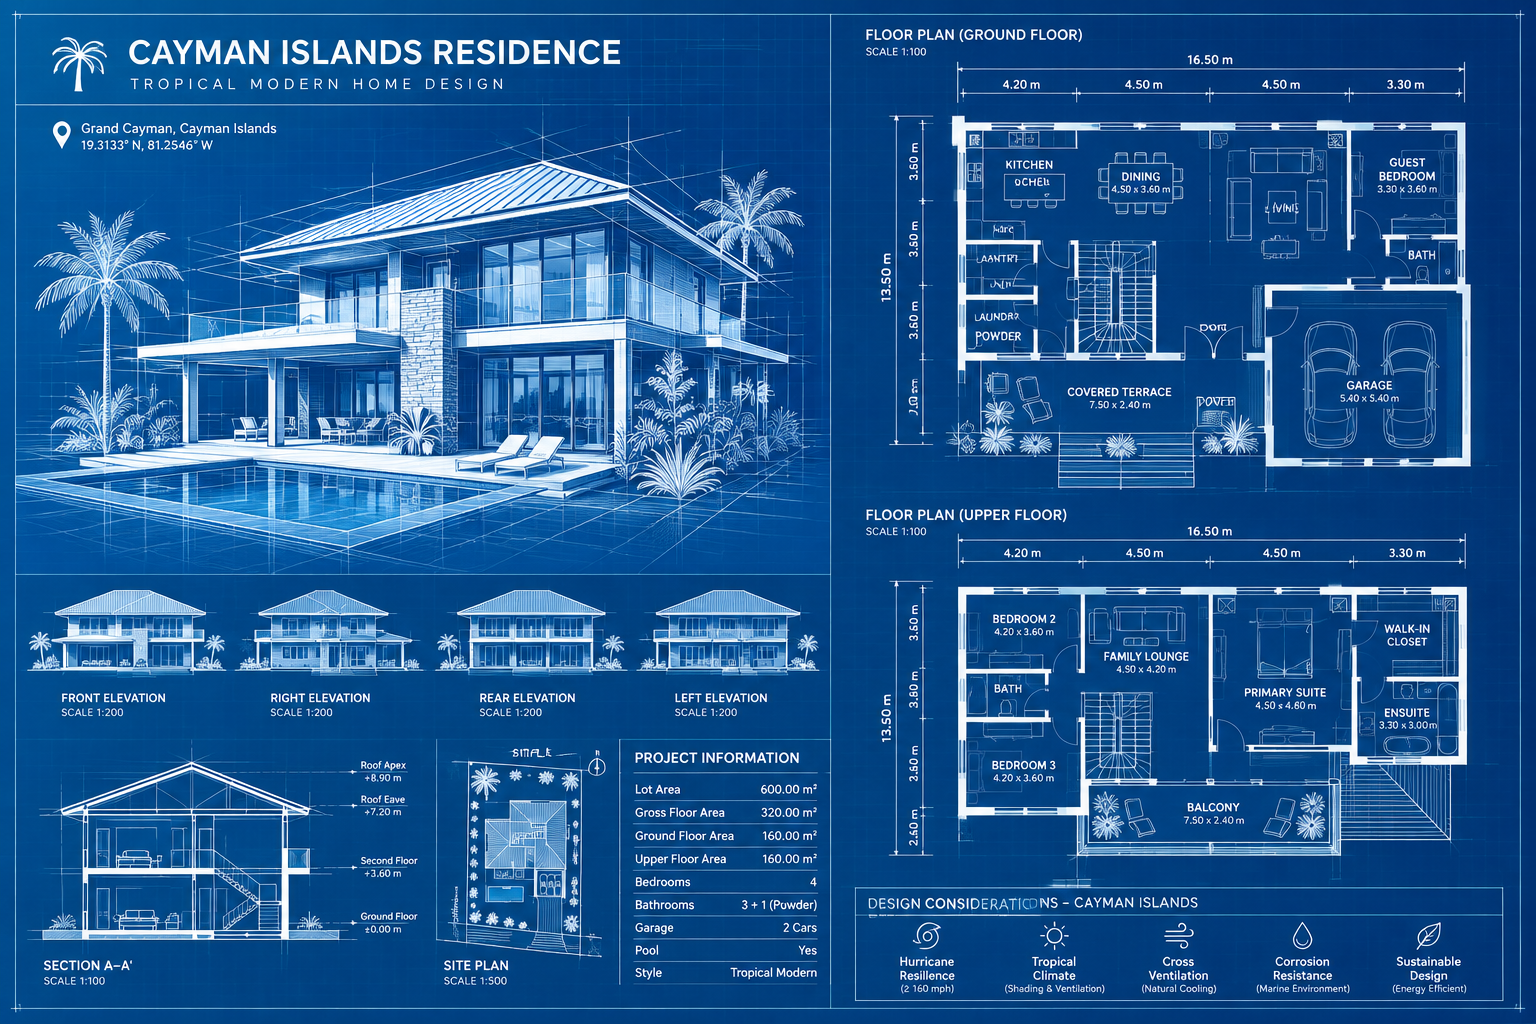
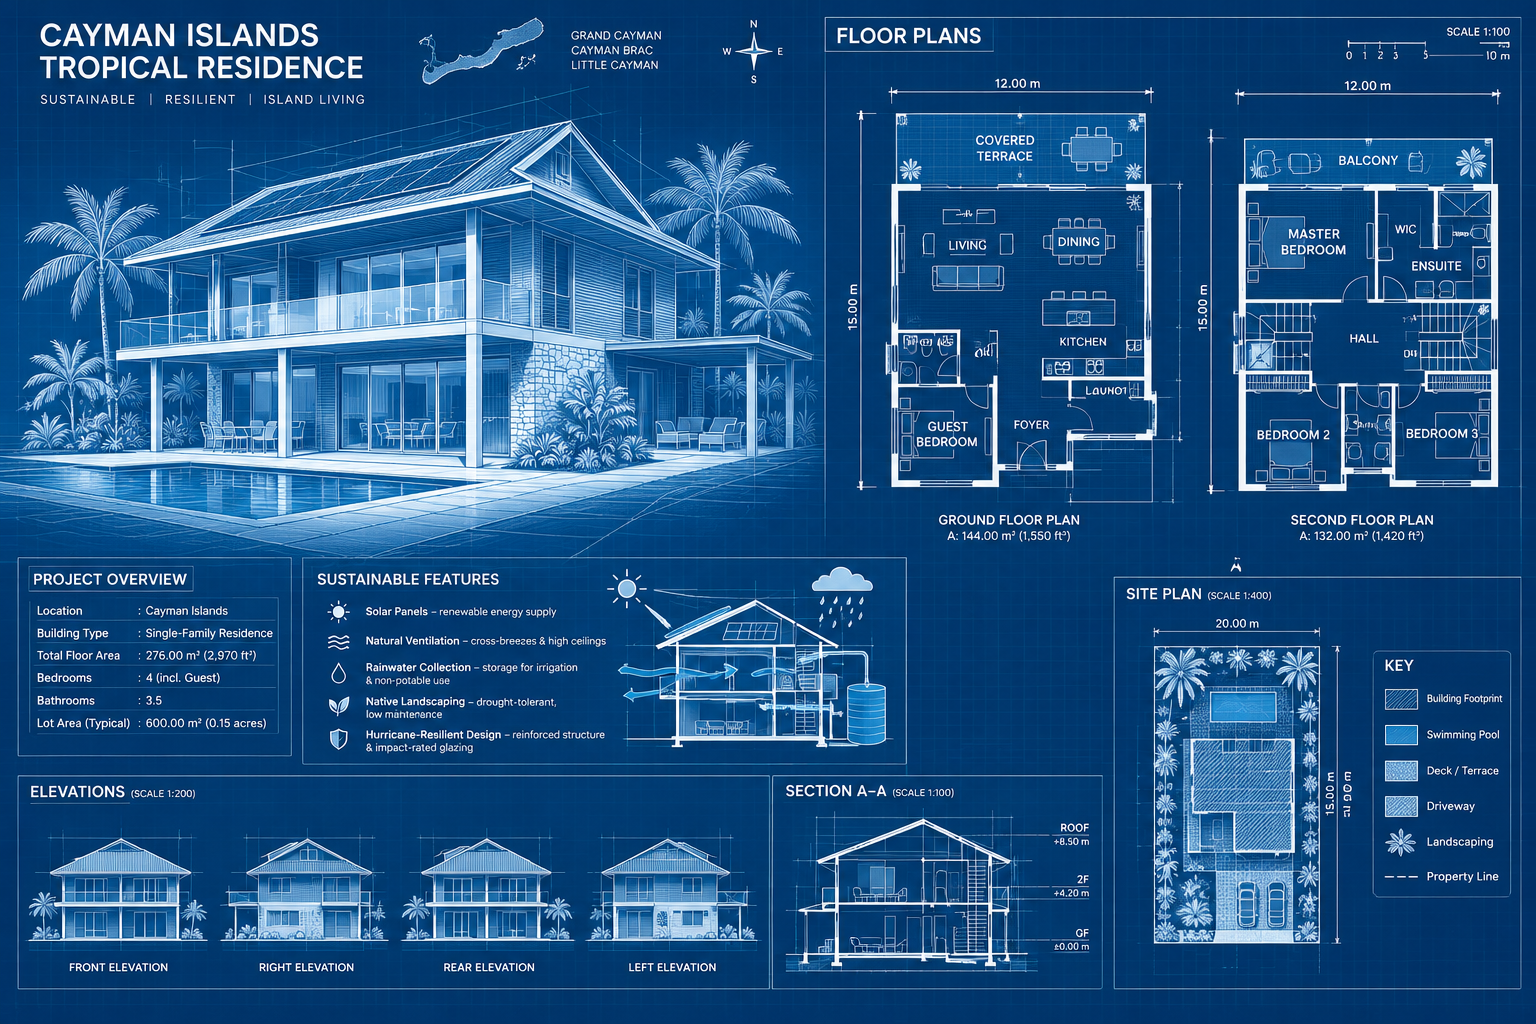
Update architecture gallery and careers section

diff --git a/components/pages/CareersContent.tsx b/components/pages/CareersContent.tsx
@@ -11,28 +11,34 @@ export default function CareersContent() {
       />
 
       <section className="section">
-        <div className="wrap">
-          <p className="eyebrow">Work with us</p>
-          <h2>
-            <strong>JOIN OUR TEAM!</strong>
-          </h2>
-          <p>
-            We are looking for hardworking and motivated individuals to join Blueprint Group of
-            Companies.
-            <br />
-            If you have experience or an interest in construction and related services, we would
-            like to hear from you.
-          </p>
-          <p>
-            <a className="text-link" href="/contact/">
-              <strong>Apply now!</strong>
-            </a>
-            <br />
-            Send your CV to{' '}
-            <a className="text-link" href="mailto:info@blueprint.ky">
-              <strong>info@blueprint.ky</strong>
-            </a>
-          </p>
+        <div className="wrap careers-intro">
+          <img
+            src="/assets/Construction Team Reviewing Blueprint Plans.png"
+            alt="Construction team reviewing blueprint plans"
+          />
+          <div>
+            <p className="eyebrow">Work with us</p>
+            <h2>
+              <strong>JOIN OUR TEAM!</strong>
+            </h2>
+            <p>
+              We are looking for hardworking and motivated individuals to join Blueprint Group of
+              Companies.
+              <br />
+              If you have experience or an interest in construction and related services, we would
+              like to hear from you.
+            </p>
+            <p>
+              <a className="text-link" href="/contact/">
+                <strong>Apply now!</strong>
+              </a>
+              <br />
+              Send your CV to{' '}
+              <a className="text-link" href="mailto:info@blueprint.ky">
+                <strong>info@blueprint.ky</strong>
+              </a>
+            </p>
+          </div>
         </div>
       </section>
     </>

diff --git a/lib/projects.ts b/lib/projects.ts
@@ -46,10 +46,12 @@ export const projects: Project[] = [
     category: 'Architecture',
     cover: 'Floor plan placeholder 02.png',
     images: [
-      'Cayman Coastal Villa Blueprint Presentation.png',
+      'Cayman Islands Tropical Residence Blueprint.png',
       'Cayman Islands Hurricane-Resilient House Blueprint.png',
       'Cayman Islands Tropical Blueprint Home.png',
-      'Cayman Islands Tropical Residence Blueprint.png',
+      'Cayman Coastal Villa Blueprint Presentation.png',
+      'Cayman Islands Coastal Blueprint.png',
+      'Cayman Islands Residence Blueprint Board.png',
     ],
     desc: 'Architectural design plans for homes in the Cayman Islands.',
   },

diff --git a/app/globals.css b/app/globals.css
@@ -464,6 +464,20 @@ p {
 .split p {
   font-size: 15px;
 }
+.careers-intro {
+  display: grid;
+  grid-template-columns: minmax(0, 1.1fr) minmax(320px, 0.9fr);
+  align-items: center;
+  gap: 70px;
+}
+.careers-intro h2 {
+  margin-bottom: 24px;
+}
+.careers-intro > img {
+  width: 100%;
+  aspect-ratio: 1.15;
+  object-fit: cover;
+}
 .values {
   border-top: 1px solid var(--line);
   margin: 28px 0;
@@ -1238,6 +1252,10 @@ dialog img {
     margin-bottom: 0;
   }
   .split {
+    grid-template-columns: 1fr;
+    gap: 35px;
+  }
+  .careers-intro {
     grid-template-columns: 1fr;
     gap: 35px;
   }

diff --git a/components/ClientCarousel.tsx b/components/ClientCarousel.tsx
@@ -6,7 +6,7 @@ export default function ClientCarousel() {
       <div className="wrap">
         <div className="section-head">
           <div>
-            <p className="eyebrow">Our clients</p>
+            <p className="eyebrow">Bringing Visions to Life, Together.</p>
             <h2 id="clients-heading">Our clients.</h2>
           </div>
         </div>
